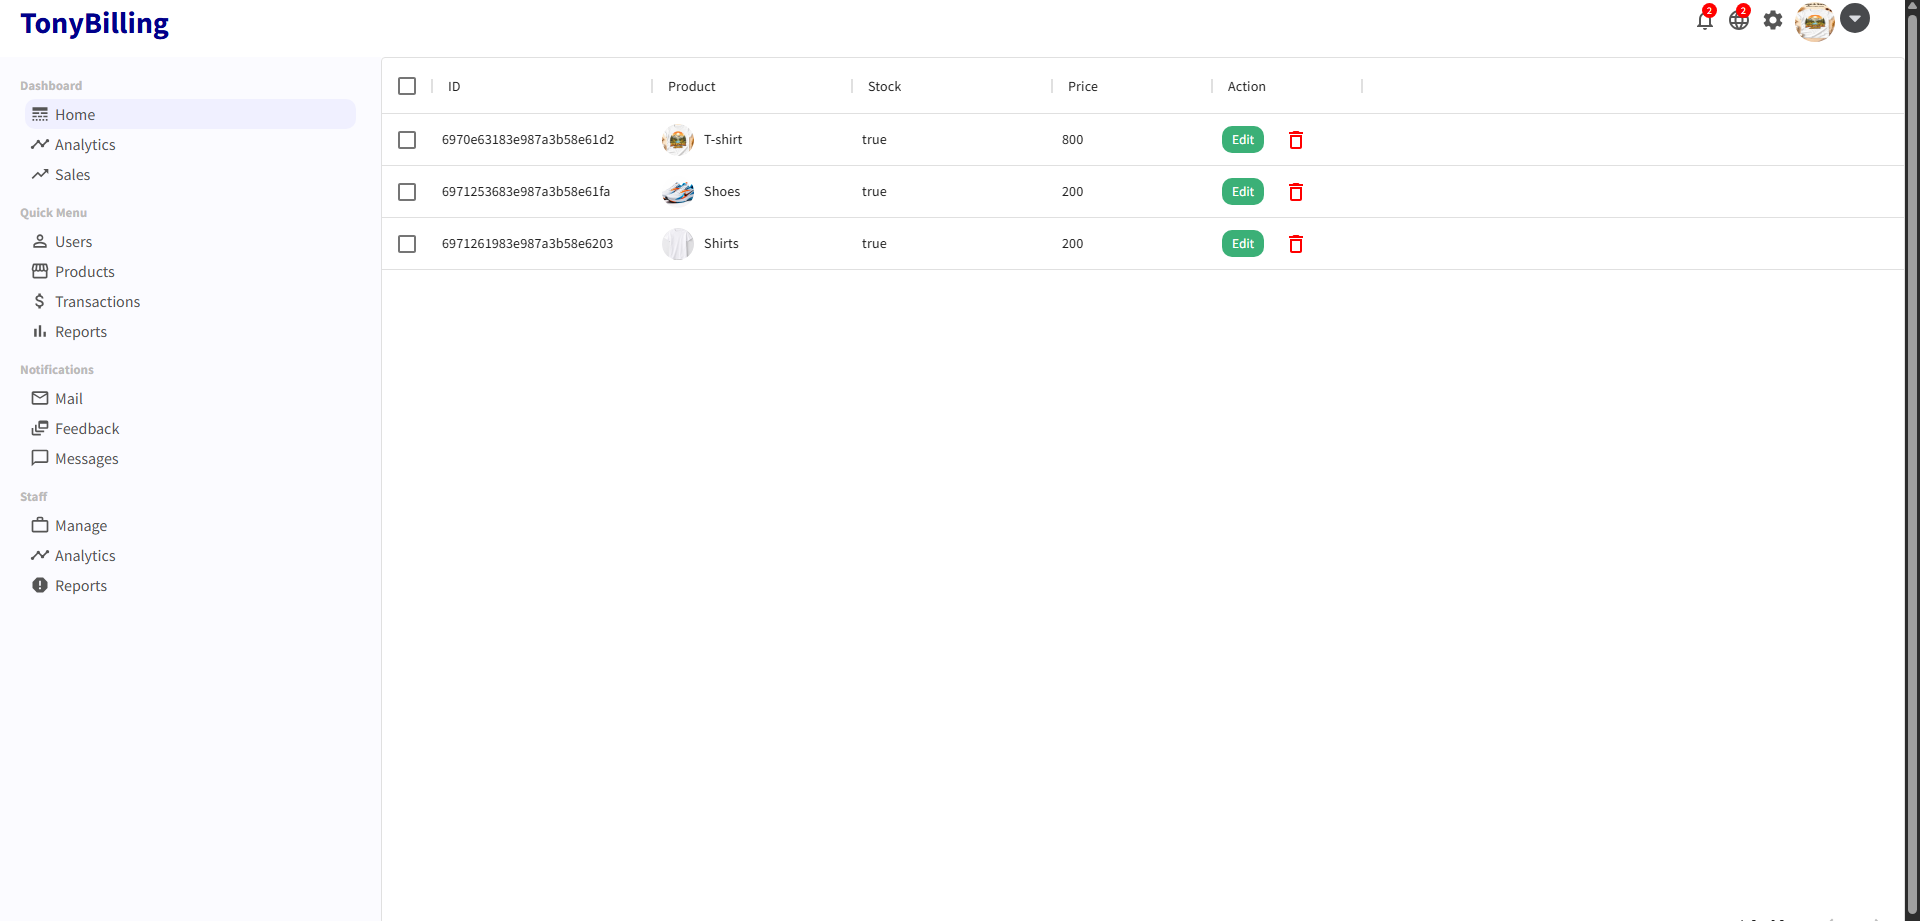
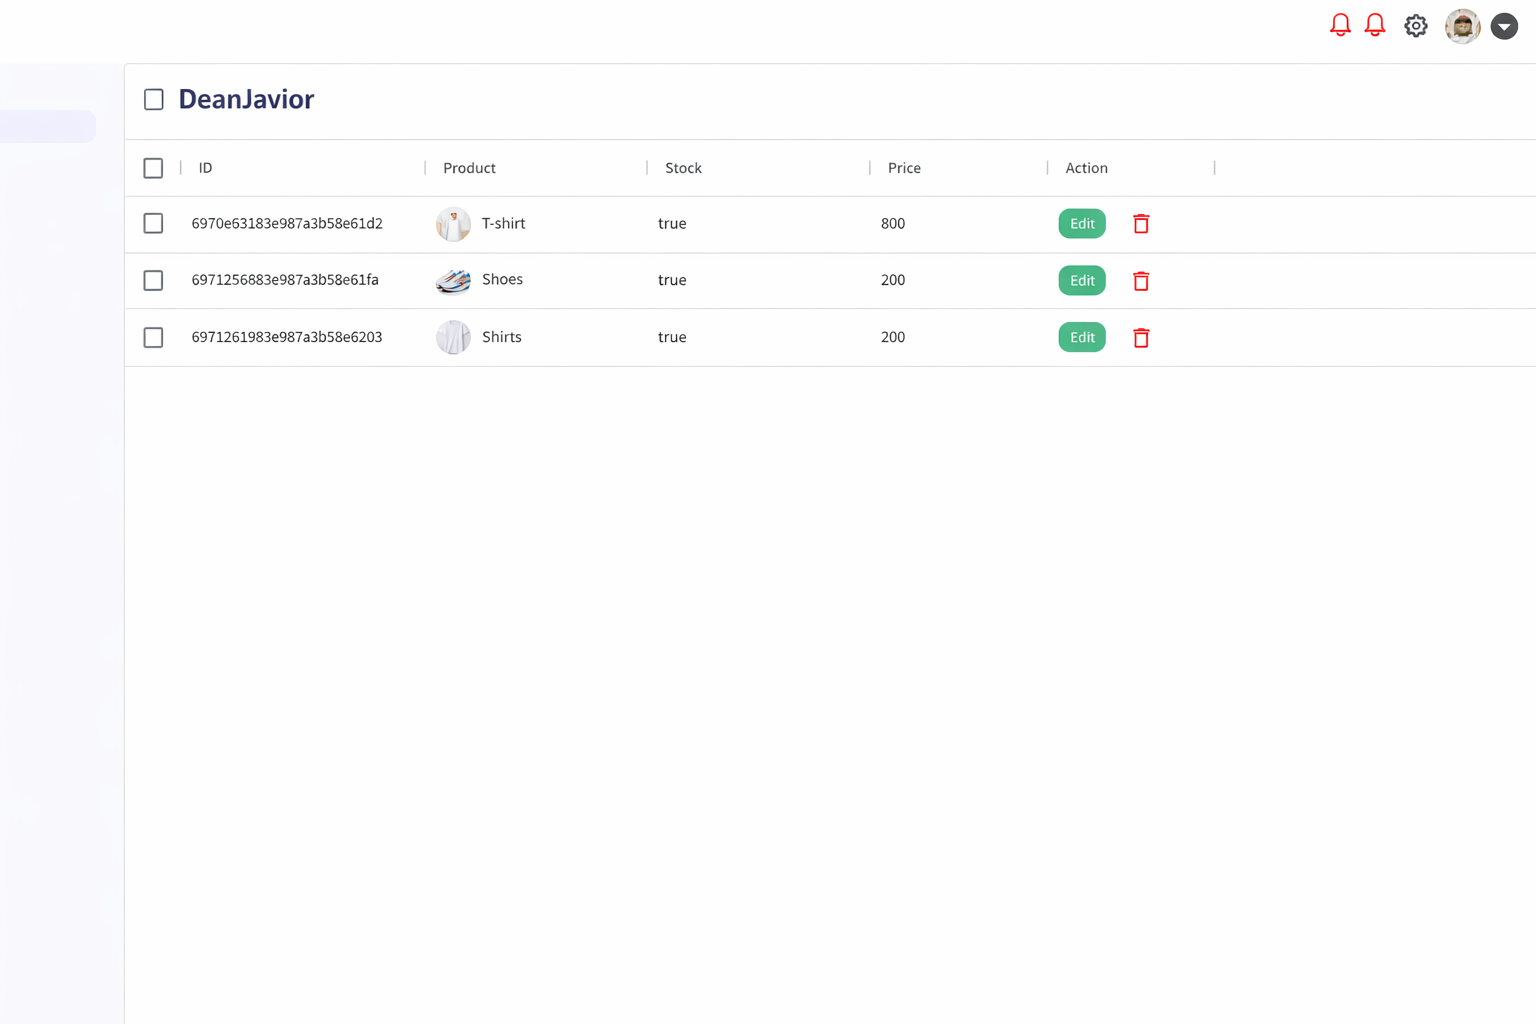
update readme

diff --git a/client/src/pages/Register.jsx b/client/src/pages/Register.jsx
@@ -228,7 +228,7 @@ export default function Register() {
               label="Full name"
               name="fullName"
               type="text"
-              placeholder="Tony Stark"
+              placeholder="Javior Stark"
               value={form.fullName}
               onChange={onChange}
               onBlur={onBlur}
@@ -239,7 +239,7 @@ export default function Register() {
               label="Username"
               name="username"
               type="text"
-              placeholder="tony_dev"
+              placeholder="javior_dev"
               value={form.username}
               onChange={onChange}
               onBlur={onBlur}

diff --git a/client/src/pages/Cart.jsx b/client/src/pages/Cart.jsx
@@ -266,7 +266,7 @@ const Cart = () => {
               <SummaryItemPrice>$ {cart.total}</SummaryItemPrice>
             </SummaryItem>
             <StripeCheckout
-              name="Tony Shop"
+              name="Dean Shop"
               image="https://avatars.githubusercontent.com/u/1486366?v=4"
               billingAddress
               shippingAddress

diff --git a/admin/src/components/topbar/Topbar.jsx b/admin/src/components/topbar/Topbar.jsx
@@ -32,7 +32,7 @@ export default function Topbar() {
     <div className="topbar">
       <div className="topbarWrapper">
         <div className="topLeft">
-          <span className="logo">TonyBilling</span>
+          <span className="logo">DeanJavior</span>
         </div>
         <div className="topRight">
           <div className="topbarIconContainer">

diff --git a/client/src/components/Footer.jsx b/client/src/components/Footer.jsx
@@ -83,7 +83,7 @@ const Footer = () => {
   return (
     <Container>
       <Left>
-        <Logo>Tony Billing</Logo>
+        <Logo>Dean Javior</Logo>
         <Desc>
           There are majore variations of passages of loremn inpsum available ,
           but the majority has suffered an altercation in some forms by injected
